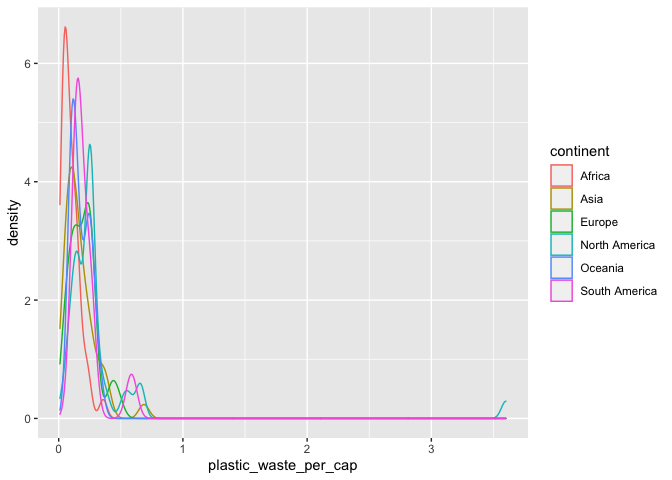
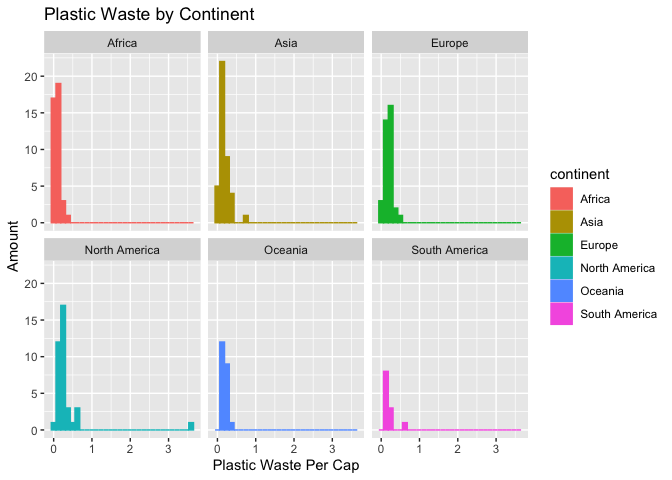
Actual Final Commit

diff --git a/lab-02.md b/lab-02.md
@@ -17,64 +17,99 @@ plastic_waste <- read.csv("data/plastic-waste.csv")
 
 ### Exercise 1
 
-Remove this text, and add your answer for Exercise 1 here.
+You can’t tell much from this visual, besides the fact that Oceania and
+South America have fewer countries registering waste per cap data.
 
 ``` r
-ggplot(data = plastic_waste, 
-       mapping = aes(x = plastic_waste_per_cap, 
-                     color = continent)) +
-  geom_density()
+ggplot(data = plastic_waste, mapping = aes(x = plastic_waste_per_cap, color = continent, fill = continent)) + geom_histogram() + facet_wrap(~ continent) + labs(x = "Plastic Waste Per Cap", y = "Amount", title = "Plastic Waste by Continent")
 ```
 
-    ## Warning: Removed 51 rows containing non-finite values (stat_density).
+    ## `stat_bin()` using `bins = 30`. Pick better value with `binwidth`.
+
+    ## Warning: Removed 51 rows containing non-finite values (stat_bin).
 
 ![](lab-02_files/figure-gfm/plastic-waste-continent-1.png)<!-- -->
 
 ### Exercise 2
 
 ``` r
-# insert code here
+ggplot(data = plastic_waste, 
+       mapping = aes(x = plastic_waste_per_cap, 
+                     color = continent, 
+                     fill = continent)) +
+  geom_density(alpha = 0.3) + labs(x = "Plastic Waste Per Cap", y = "# of countries", title = "Plastic Waste by Continent")
 ```
+
+    ## Warning: Removed 51 rows containing non-finite values (stat_density).
+
+![](lab-02_files/figure-gfm/plastic-waste-density-1.png)<!-- -->
 
 ### Exercise 3
 
-Remove this text, and add your answer for Exercise 3 here.
+The color and fill features are a subordinate part of the mapping = aes
+function, and alpha is subordinate or nested within the geom_density
+function. These features can only be defined within their appropriate
+respective functions.
 
 ### Exercise 4
 
-Remove this text, and add your answer for Exercise 4 here.
+With the violin plot, opposed to boxplots, we lose some specificity
+regarding mean, quartiles, etc.
 
 ``` r
-# insert code here
+ggplot(data = plastic_waste,    mapping = aes(x = continent, y = plastic_waste_per_cap, color = continent, fill = continent)) + geom_violin() + labs(x = "Continent", y = "Plastic Waste Per Cap", title = "Plastic Waste by Continent") 
 ```
+
+    ## Warning: Removed 51 rows containing non-finite values (stat_ydensity).
+
+![](lab-02_files/figure-gfm/plastic-waste-violin-1.png)<!-- -->
 
 ### Exercise 5
 
-Remove this text, and add your answer for Exercise 5 here.
+Based on the scatterplot, there is not a clear relationship between the
+two variables. Perhaps one could say that there is a tendency that they
+are some what negatively correlated in that as waste per cap goes up,
+mismanaged waste goes down.
 
 ``` r
-# insert code here
+ggplot(data = plastic_waste, mapping = aes(x = plastic_waste_per_cap, y = mismanaged_plastic_waste)) + geom_point() + labs(x = "Plastic Waste Per Cap", y = "Mismanaged Plastic Waste", title = "Plastic Waste x Mismanaged Plastic Waste")
 ```
+
+    ## Warning: Removed 51 rows containing missing values (geom_point).
+
+![](lab-02_files/figure-gfm/plastic-waste-mismanaged-1.png)<!-- -->
 
 ### Exercise 6
 
-Remove this text, and add your answer for Exercise 6 here.
+It seems that Asia is the worst offender of waste mismanagement.
 
 ``` r
-# insert code here
+ggplot(data = plastic_waste, mapping = aes(x = plastic_waste_per_cap, y = mismanaged_plastic_waste, color = continent, shape = continent)) + geom_point() + scale_color_viridis_d() + labs(x = "Plastic Waste Per Cap", y = "# of countries", title = "Plastic Waste x Mismanaged Plastic Waste")
 ```
+
+    ## Warning: Removed 51 rows containing missing values (geom_point).
+
+![](lab-02_files/figure-gfm/plastic-waste-mismanaged-continent-1.png)<!-- -->
 
 ### Exercise 7
 
-Remove this text, and add your answer for Exercise 7 here.
+There does not appear to be a linear relationship in either case.
 
 ``` r
-# insert code here
+ggplot(data = plastic_waste, mapping = aes(x = plastic_waste_per_cap, y = total_pop, color = continent, shape = continent)) + geom_point() + scale_color_viridis_d() + labs(x = "Plastic Waste Per Cap", y = "Total Population", title = "Plastic Waste x Total Population")
 ```
 
+    ## Warning: Removed 61 rows containing missing values (geom_point).
+
+![](lab-02_files/figure-gfm/plastic-waste-population-total-1.png)<!-- -->
+
 ``` r
-# insert code here
+ggplot(data = plastic_waste, mapping = aes(x = plastic_waste_per_cap, y = coastal_pop, color = continent, shape = continent)) + geom_point() + scale_color_viridis_d() + labs(x = "Plastic Waste Per Cap", y = "Total Population", title = "Plastic Waste x Coastal Population")
 ```
+
+    ## Warning: Removed 51 rows containing missing values (geom_point).
+
+![](lab-02_files/figure-gfm/plastic-waste-population-coastal-1.png)<!-- -->
 
 ### Exercise 8
 
